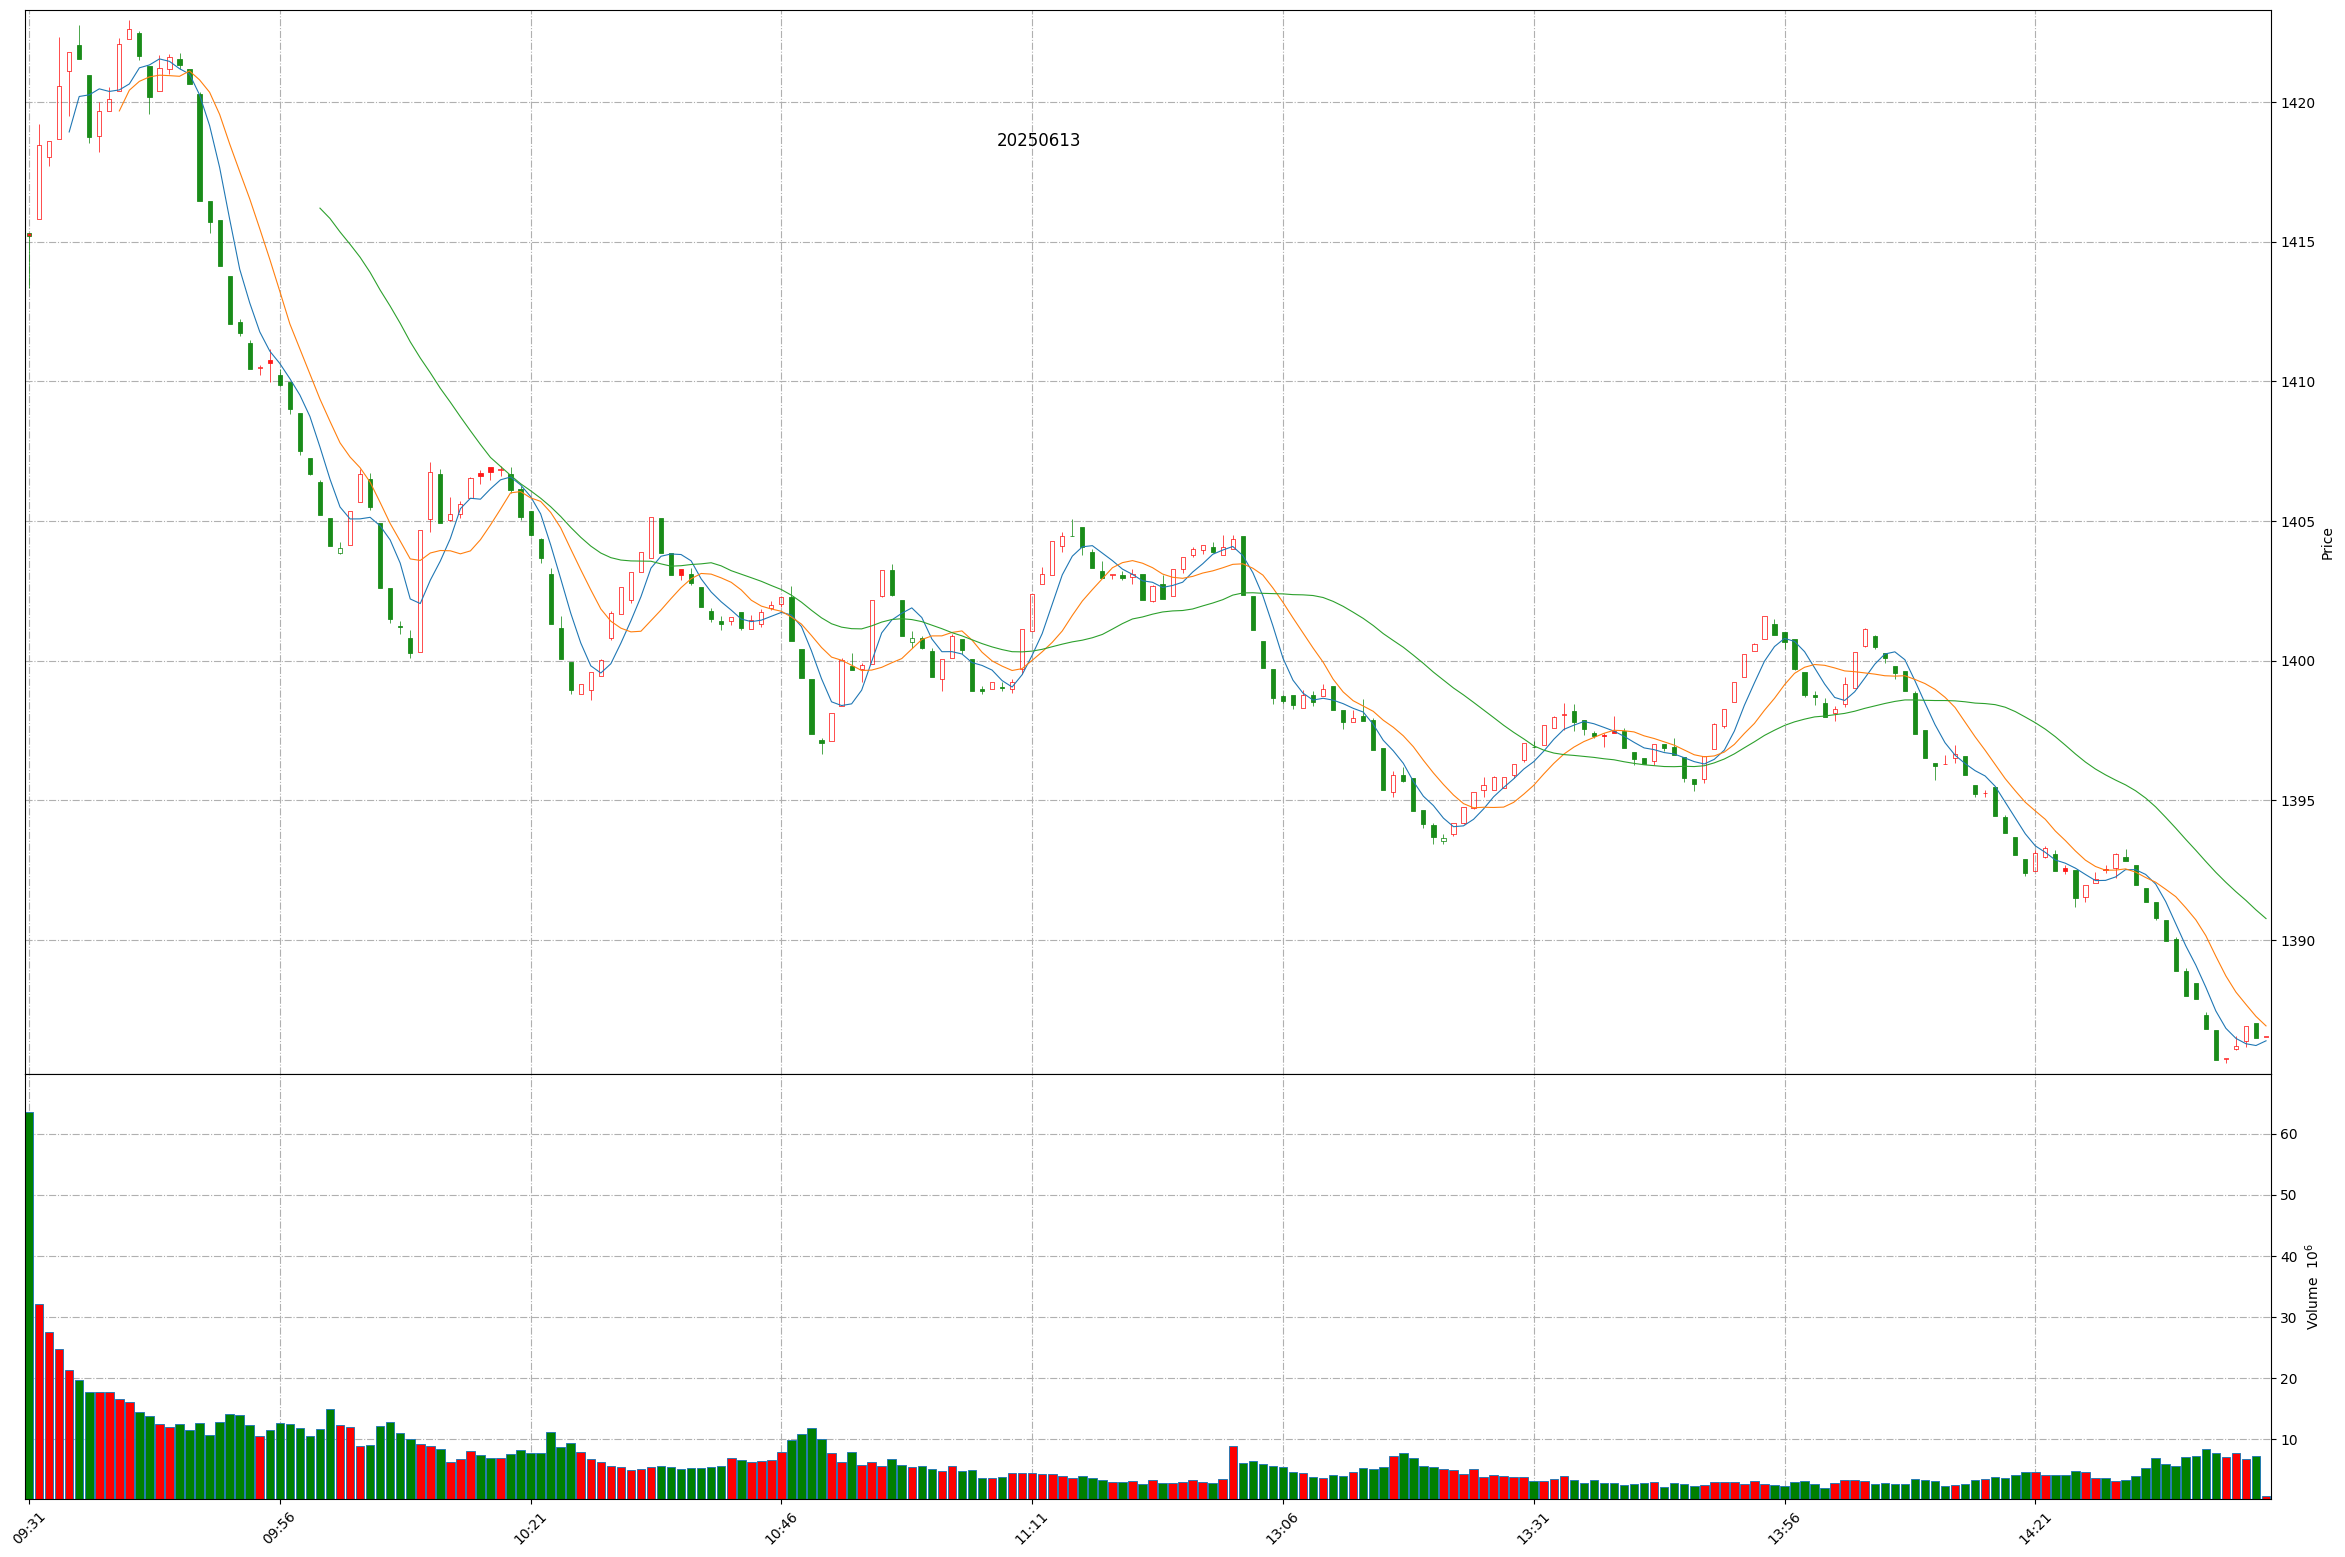
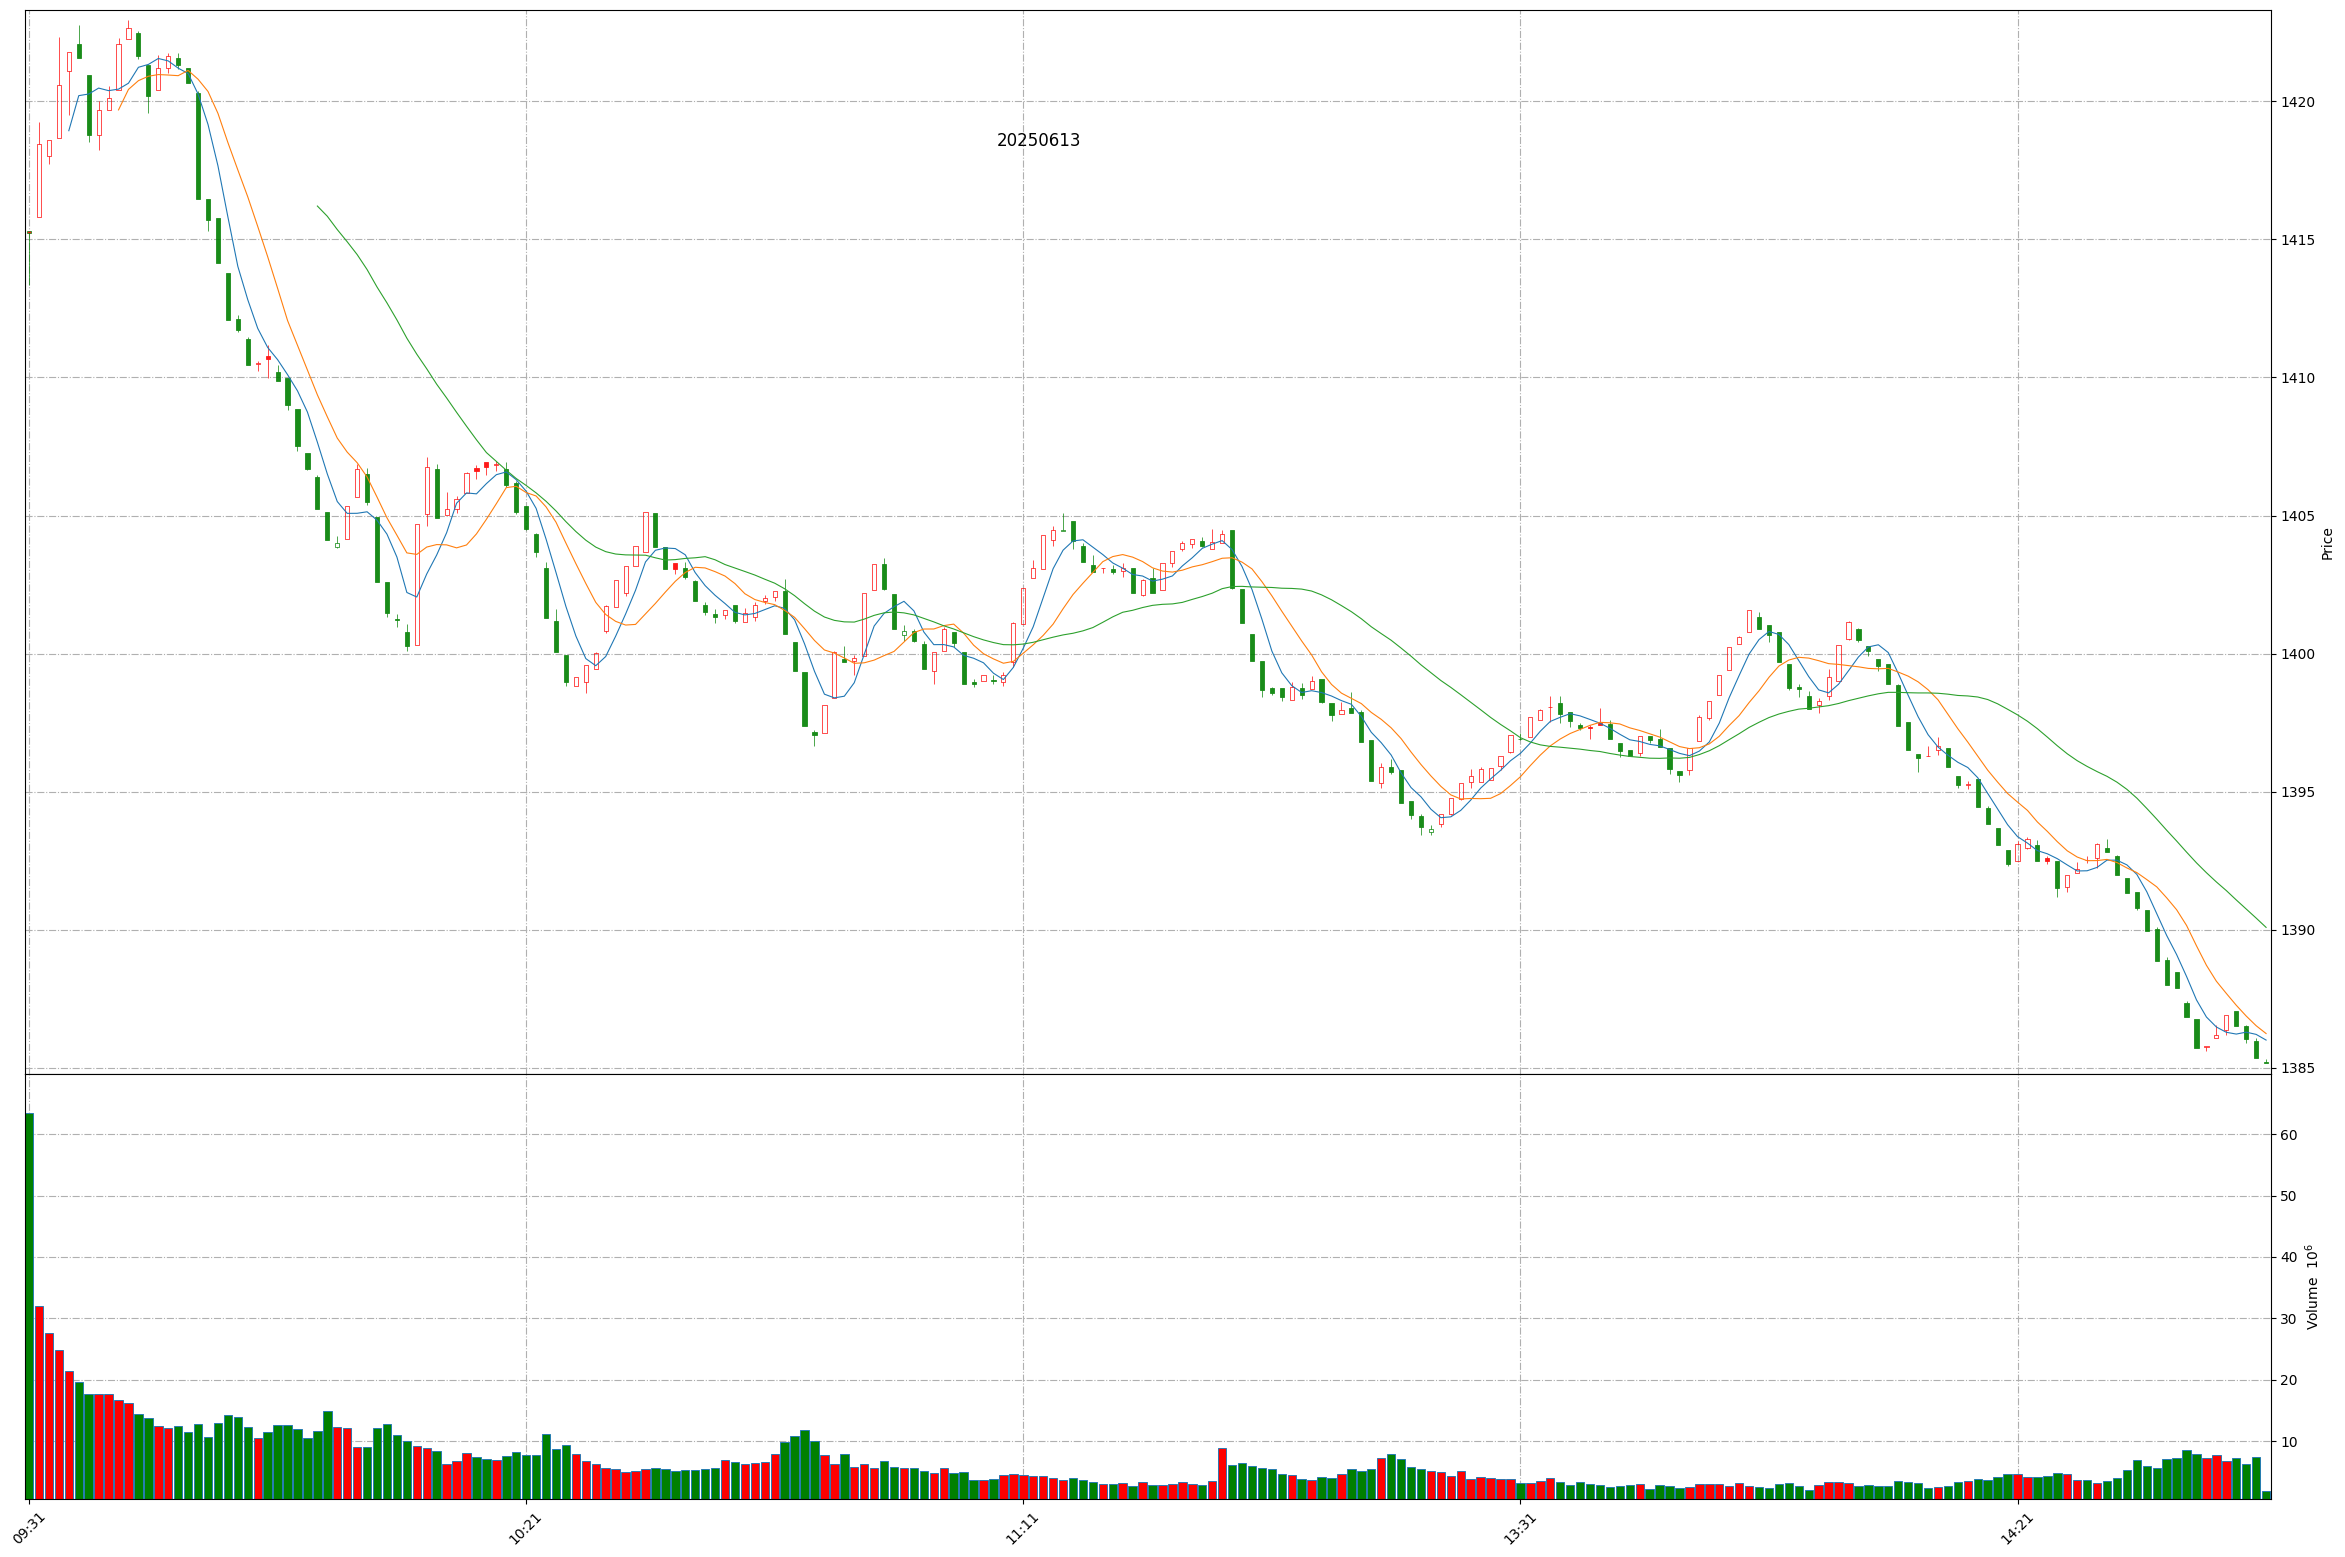
Github action update at 2025-06-13 14:45:35.

diff --git a/README.md b/README.md
@@ -1,11 +1,11 @@
 
 # Daily-A-share-market-quotes 每日 A 股指数（5min 更新）- 20250613
 
-### 上证指数 20250613 14:43
+### 上证指数 20250613 14:45
 ![](./fig/2025/6/20250613-sh000001.png)
 
-### 深证成指 20250613 14:43
+### 深证成指 20250613 14:45
 ![](./fig/2025/6/20250613-sz399001.png)
 
-### 北证50 20250613 14:43
+### 北证50 20250613 14:45
 ![](./fig/2025/6/20250613-bj899050.png)
